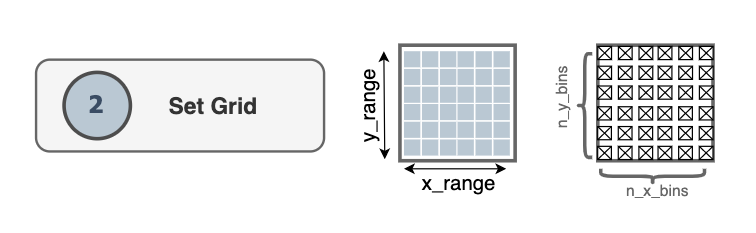
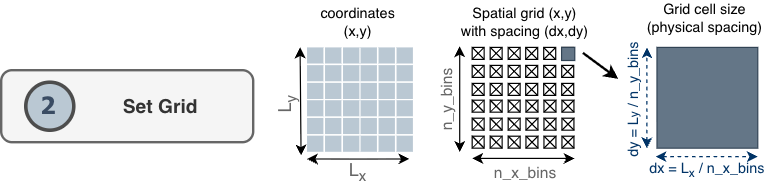
Docs: update set grid w/ fig

diff --git a/docs/source/pages/Algorithm.rst b/docs/source/pages/Algorithm.rst
@@ -39,17 +39,23 @@ reference.
 2. Set grid
 -------------
 The dimensions of the grid are determined by the size of the simulation box
-contained in the :class:`~MDAnalysis.core.universe.Universe`. The grid comprises 
-``n_x_bins`` x ``n_y_bins`` number of bins.
+contained in the :class:`~MDAnalysis.core.universe.Universe`.
+The grid covers a rectangular domain in the membrane plane. By default that
+domain matches the `x` and `y` edges of the simulation box from MDAnalysis'
+:class:`~MDAnalysis.core.universe.Universe`.The grid comprises ``n_x_bins`` x 
+``n_y_bins`` bins along the `x` and `y` directions.
+
+For every atom in the :class:`~MDAnalysis.core.groups.AtomGroup` of reference,
+MembraneCurvature assigns it to a grid cell based on its `x` and `y` coordinates.
+In practice, each coordinate pair ``(x, y)`` is mapped to a grid location
+``[l, m]`` corresponding to a bin in the discretized membrane surface.
 
 |grid|
 
-For every atom in the :class:`~MDAnalysis.core.groups.AtomGroup` of reference, 
-MembraneCurvature assigns an index in the grid, according to their respective 
-`x` and `y` coordinates. i.e. ``(x, y) ↦ [l, m]``. 
-
-The physical spacing associated with each grid cell is derived from the box size
-``(L_x and L_y)`` and the number of bins (``n_x_bins`` and ``n_y_bins``):
+Here, :math:`L_x` and :math:`L_y` represent the size of the region covered by
+the grid along the `x` and `y` directions (i.e. the span of ``x_range`` and
+``y_range``). The spacing between grid points in each direction is then
+determined by dividing these lengths by the number of bins:
 
 .. math::
 
@@ -57,6 +63,9 @@ The physical spacing associated with each grid cell is derived from the box size
 
 These spacings are used in derivative calculations so that curvature is computed
 in physical units.
+
+Once the grid has been populated, the `z` coordinates of atoms assigned to each
+cell are collected to form a height field over the grid.
 
 .. note::
   Unless the user provides a different input, MembraneCurvature will determine
@@ -67,10 +76,6 @@ in physical units.
 
       grid_dimension_x = (0, universe.dimensions[0])
       grid_dimension_y = (0, universe.dimensions[1])
-
-Once the grid is populated according to the coordinates of the atoms in the
-AtomGroup of reference, the associated `z` coordinate of each atom in the AtomGroup 
-is stored in an array assigned to each ``[l, m]`` index.
 
 .. _derive-surface-curvature:
 
@@ -118,11 +123,6 @@ mean, and Gaussian curvature are stored in the
 Each array has shape ``(n_x_bins, n_y_bins)``.
 
 |avg_frames|
-
-
-.. |grid_map| image:: ../_static/gridmap.png
-  :width: 400
-  :alt: GridMap
 
 .. |diagram| image:: ../_static/DiagramAlgorithm.png
   :width: 800
